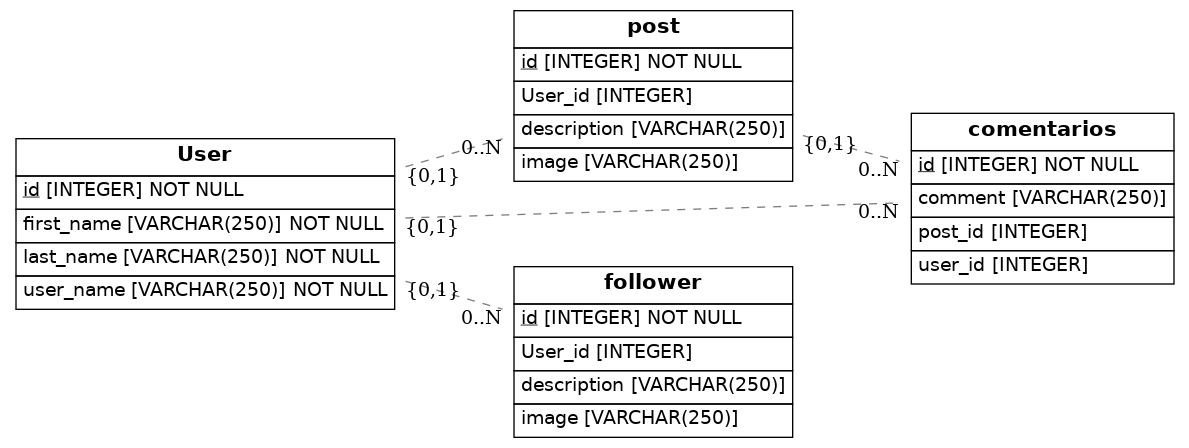
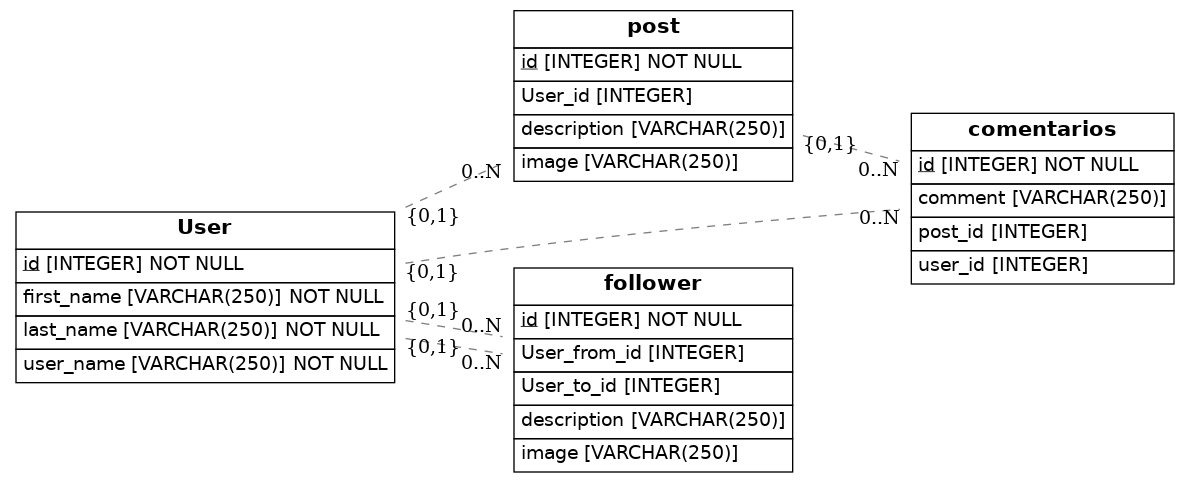
corregir followers

Changed region(s): [[0.0, 0.2812, 0.6846, 1.0], [0.3734, 0.0, 0.9958, 0.6562], [0.4668, 0.4688, 0.5601, 0.5]]

diff --git a/src/models.py b/src/models.py
@@ -44,8 +44,8 @@ class Follower(Base):
     id = Column(Integer, primary_key=True)
     image = Column(String(250))
     description = Column(String(250))
-    User_id = Column(Integer, ForeignKey('User.id'))
-    User_id = Column(Integer, ForeignKey('User.id'))
+    User_from_id = Column(Integer, ForeignKey('User.id'))
+    User_to_id= Column(Integer, ForeignKey('User.id'))
     user = relationship(User)
 
 
